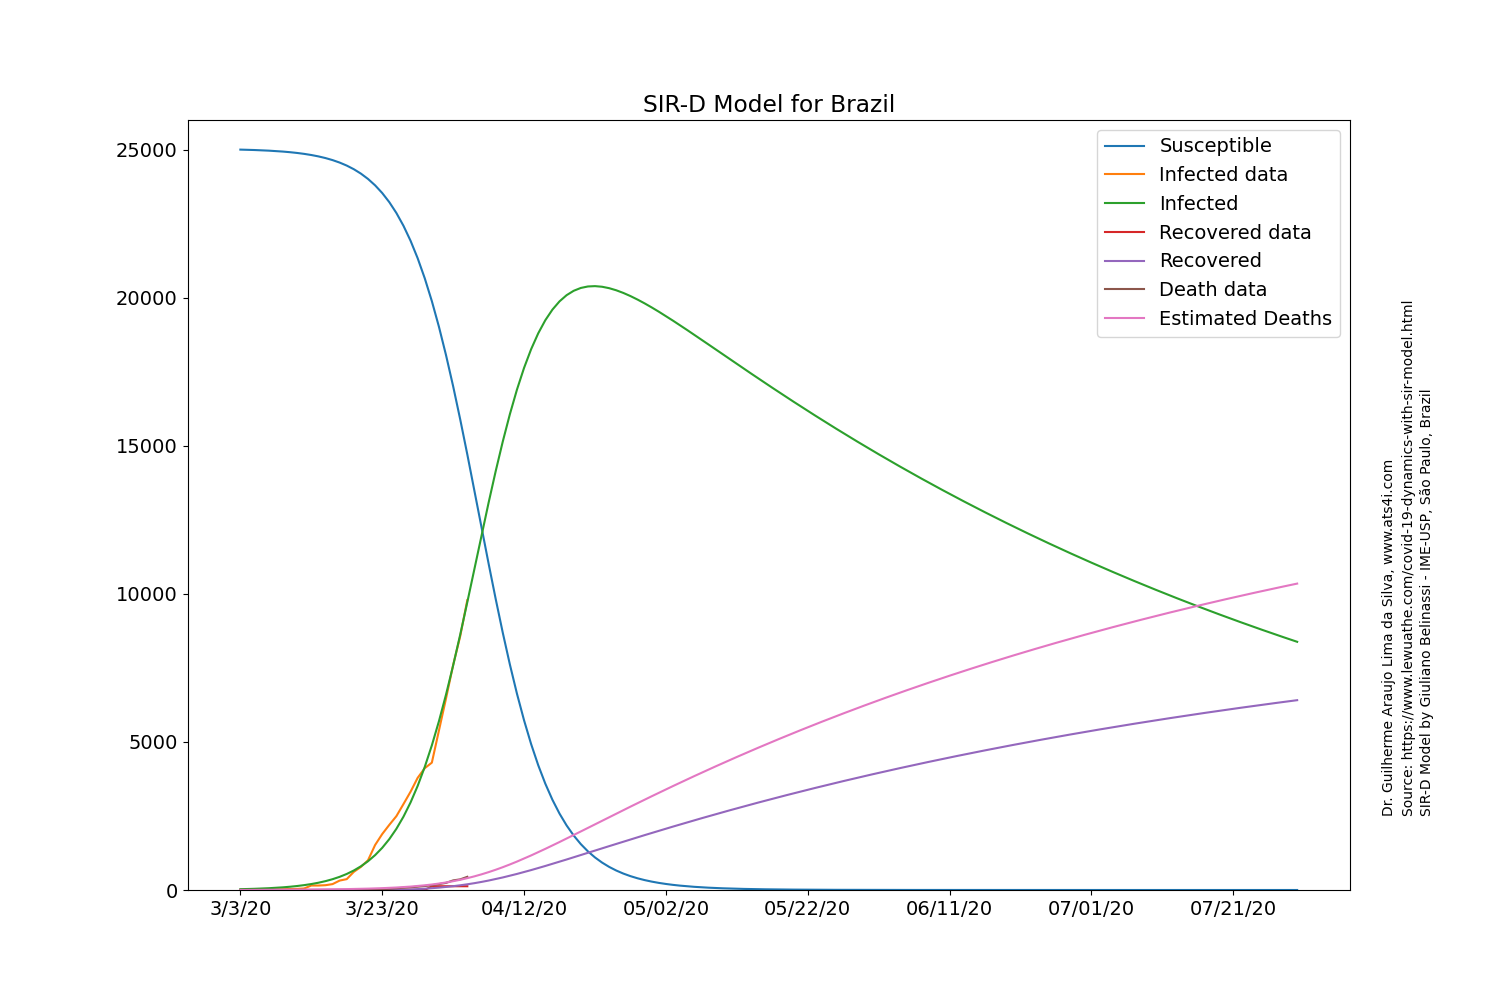
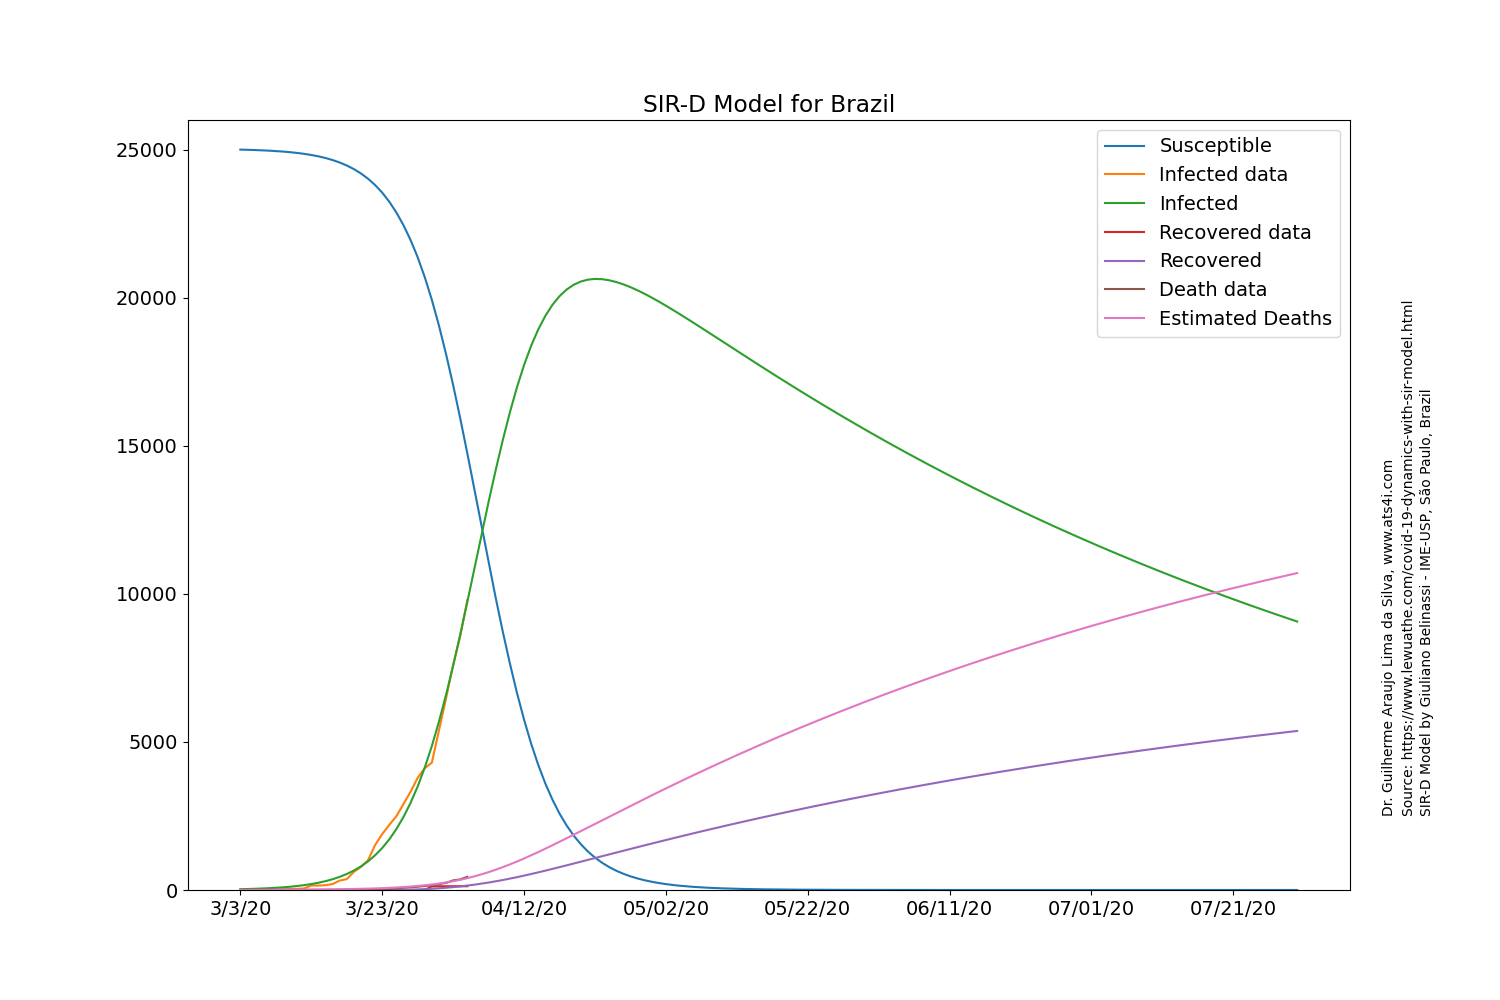
last corrections - solvers

diff --git a/dataFit_SEIR.py b/dataFit_SEIR.py
@@ -239,29 +239,26 @@ class Learner(object):
         return values
 
     #predict final extended values
-    def predict(self, beta, a, b, data, recovered, death, country, s_0, i_0, r_0, d_0):
+    def predict(self, beta, mu, sigma, a, b, data, recovered, death, country, s_0, i_0, r_0, d_0):
         new_index = self.extend_index(data.index, self.predict_range)
         size = len(new_index)
         def SIR(y,t):
-        # def SIR(t,y):
             S = y[0]
-            I = y[1]
-            R = y[2]
-            D = y[3]
-            y1=-beta*S*I
-            y2=beta*S*I-(a+b)*I
-            y3=a*I
-            y4=1-(y1+y2+y3)
-            return [y1,y2,y3,y4]
+            E = y[1]
+            I = y[2]
+            R = y[3]
+            y1=mu-(beta*I+mu)*S
+            y2=beta*S*I-(mu+sigma)*E
+            y3=sigma*E-(mu+a+b)*I
+            return [-beta*S*I, beta*S*I-(a+b)*I, a*I, yz]
         y0=[s_0,i_0,r_0,d_0]
         tspan=np.arange(0, size, 1)
         res=odeint(SIR,y0,tspan)
-        # solution = solve_ivp(SIR, [0, size], [s_0,i_0,r_0,d_0], t_eval=np.arange(0, size, 1), vectorized=True)
         extended_actual = np.concatenate((data.values, [None] * (size - len(data.values))))
         extended_recovered = np.concatenate((recovered.values, [None] * (size - len(recovered.values))))
         extended_death = np.concatenate((death.values, [None] * (size - len(death.values))))
+        # ivp = solve_ivp(SIR, [0, size], [s_0,i_0,r_0,d_0], t_eval=np.arange(0, size, 1))
         return new_index, extended_actual, extended_recovered, extended_death, res[:,0], res[:,1],res[:,2],res[:,3]
-        # return new_index, extended_actual, extended_recovered, extended_death, solution.y[0],solution.y[1],solution.y[2],solution.y[3]
 
     #run optimizer and plotting
     def train(self):
@@ -324,11 +321,8 @@ def lossOdeint(point, data, recovered, death, s_0, i_0, r_0, d_0):
         I = y[1]
         R = y[2]
         D = y[3]
-        y1=-beta*S*I
-        y2=beta*S*I-(a+b)*I
-        y3=a*I
-        y4=1-(y1+y2+y3)
-        return [y1,y2,y3,y4]
+        yz=1-(-beta*S*I+beta*S*I-(a+b)*I+a*I)
+        return [-beta*S*I, beta*S*I-(a+b)*I, a*I, yz]
     y0=[s_0,i_0,r_0,d_0]
     tspan=np.arange(0, size, 1)
     res=odeint(SIR,y0,tspan)
@@ -338,7 +332,7 @@ def lossOdeint(point, data, recovered, death, s_0, i_0, r_0, d_0):
     #weight for cases
     u = 0.25
     #weight for recovered
-    v = 0.15 ##Brazil France 0.02 China 0.01 (it has a lag in recoveries) Others 0.15
+    v = 0.1 ##Brazil France 0.02 China 0.01 (it has a lag in recoveries) Others 0.15
     #weight for deaths
     w = 1 - u - v
     return u*l1 + v*l2 + w*l3
@@ -347,25 +341,19 @@ def lossOdeint(point, data, recovered, death, s_0, i_0, r_0, d_0):
 def loss(point, data, recovered, death, s_0, i_0, r_0, d_0):
     size = len(data)
     beta, a, b = point
-    def SIR(t,y):
+    def SIR(y,t):
         S = y[0]
         I = y[1]
         R = y[2]
         D = y[3]
-        y1=-beta*S*I
-        y2=beta*S*I-(a+b)*I
-        y3=a*I
-        y4=1-(y1+y2+y3)
-        return [y1,y2,y3,y4]
+        yz=1-(-beta*S*I+beta*S*I-(a+b)*I+a*I)
+        return [-beta*S*I, beta*S*I-(a+b)*I, a*I, yz]
     solution = solve_ivp(SIR, [0, size], [s_0,i_0,r_0,d_0], t_eval=np.arange(0, size, 1), vectorized=True)
     l1 = np.sqrt(np.mean((solution.y[1] - data)**2))
     l2 = np.sqrt(np.mean((solution.y[2] - recovered)**2))
     l3 = np.sqrt(np.mean((solution.y[3] - death)**2))
-    #weight for cases
-    u = 0.25
-    #weight for recovered
-    v = 0.15 ##Brazil France 0.02 China 0.01 (it has a lag in recoveries) Others 0.15
-    #weight for deaths
+    u = 0.1
+    v = 0.1
     w = 1 - u - v
     return u*l1 + v*l2 + w*l3
 
@@ -428,7 +416,7 @@ df=df.transpose()
 #opt=3 bar plot with growth rate
 #opt=4 log plot + bar plot
 #opt=5 SIR-D Model
-opt=5
+opt=0
 
 #prepare data for plotting
 country1="US"
@@ -458,7 +446,7 @@ country="Brazil"
 # "United Kingdom"
 # "US"
 # Countries above are already adjusted
-countrySIRD="Italy"
+countrySIRD="Brazil"
 
 # For other countries you can run at command line
 # but be sure to define S_0, I_0, R_0, K_0
